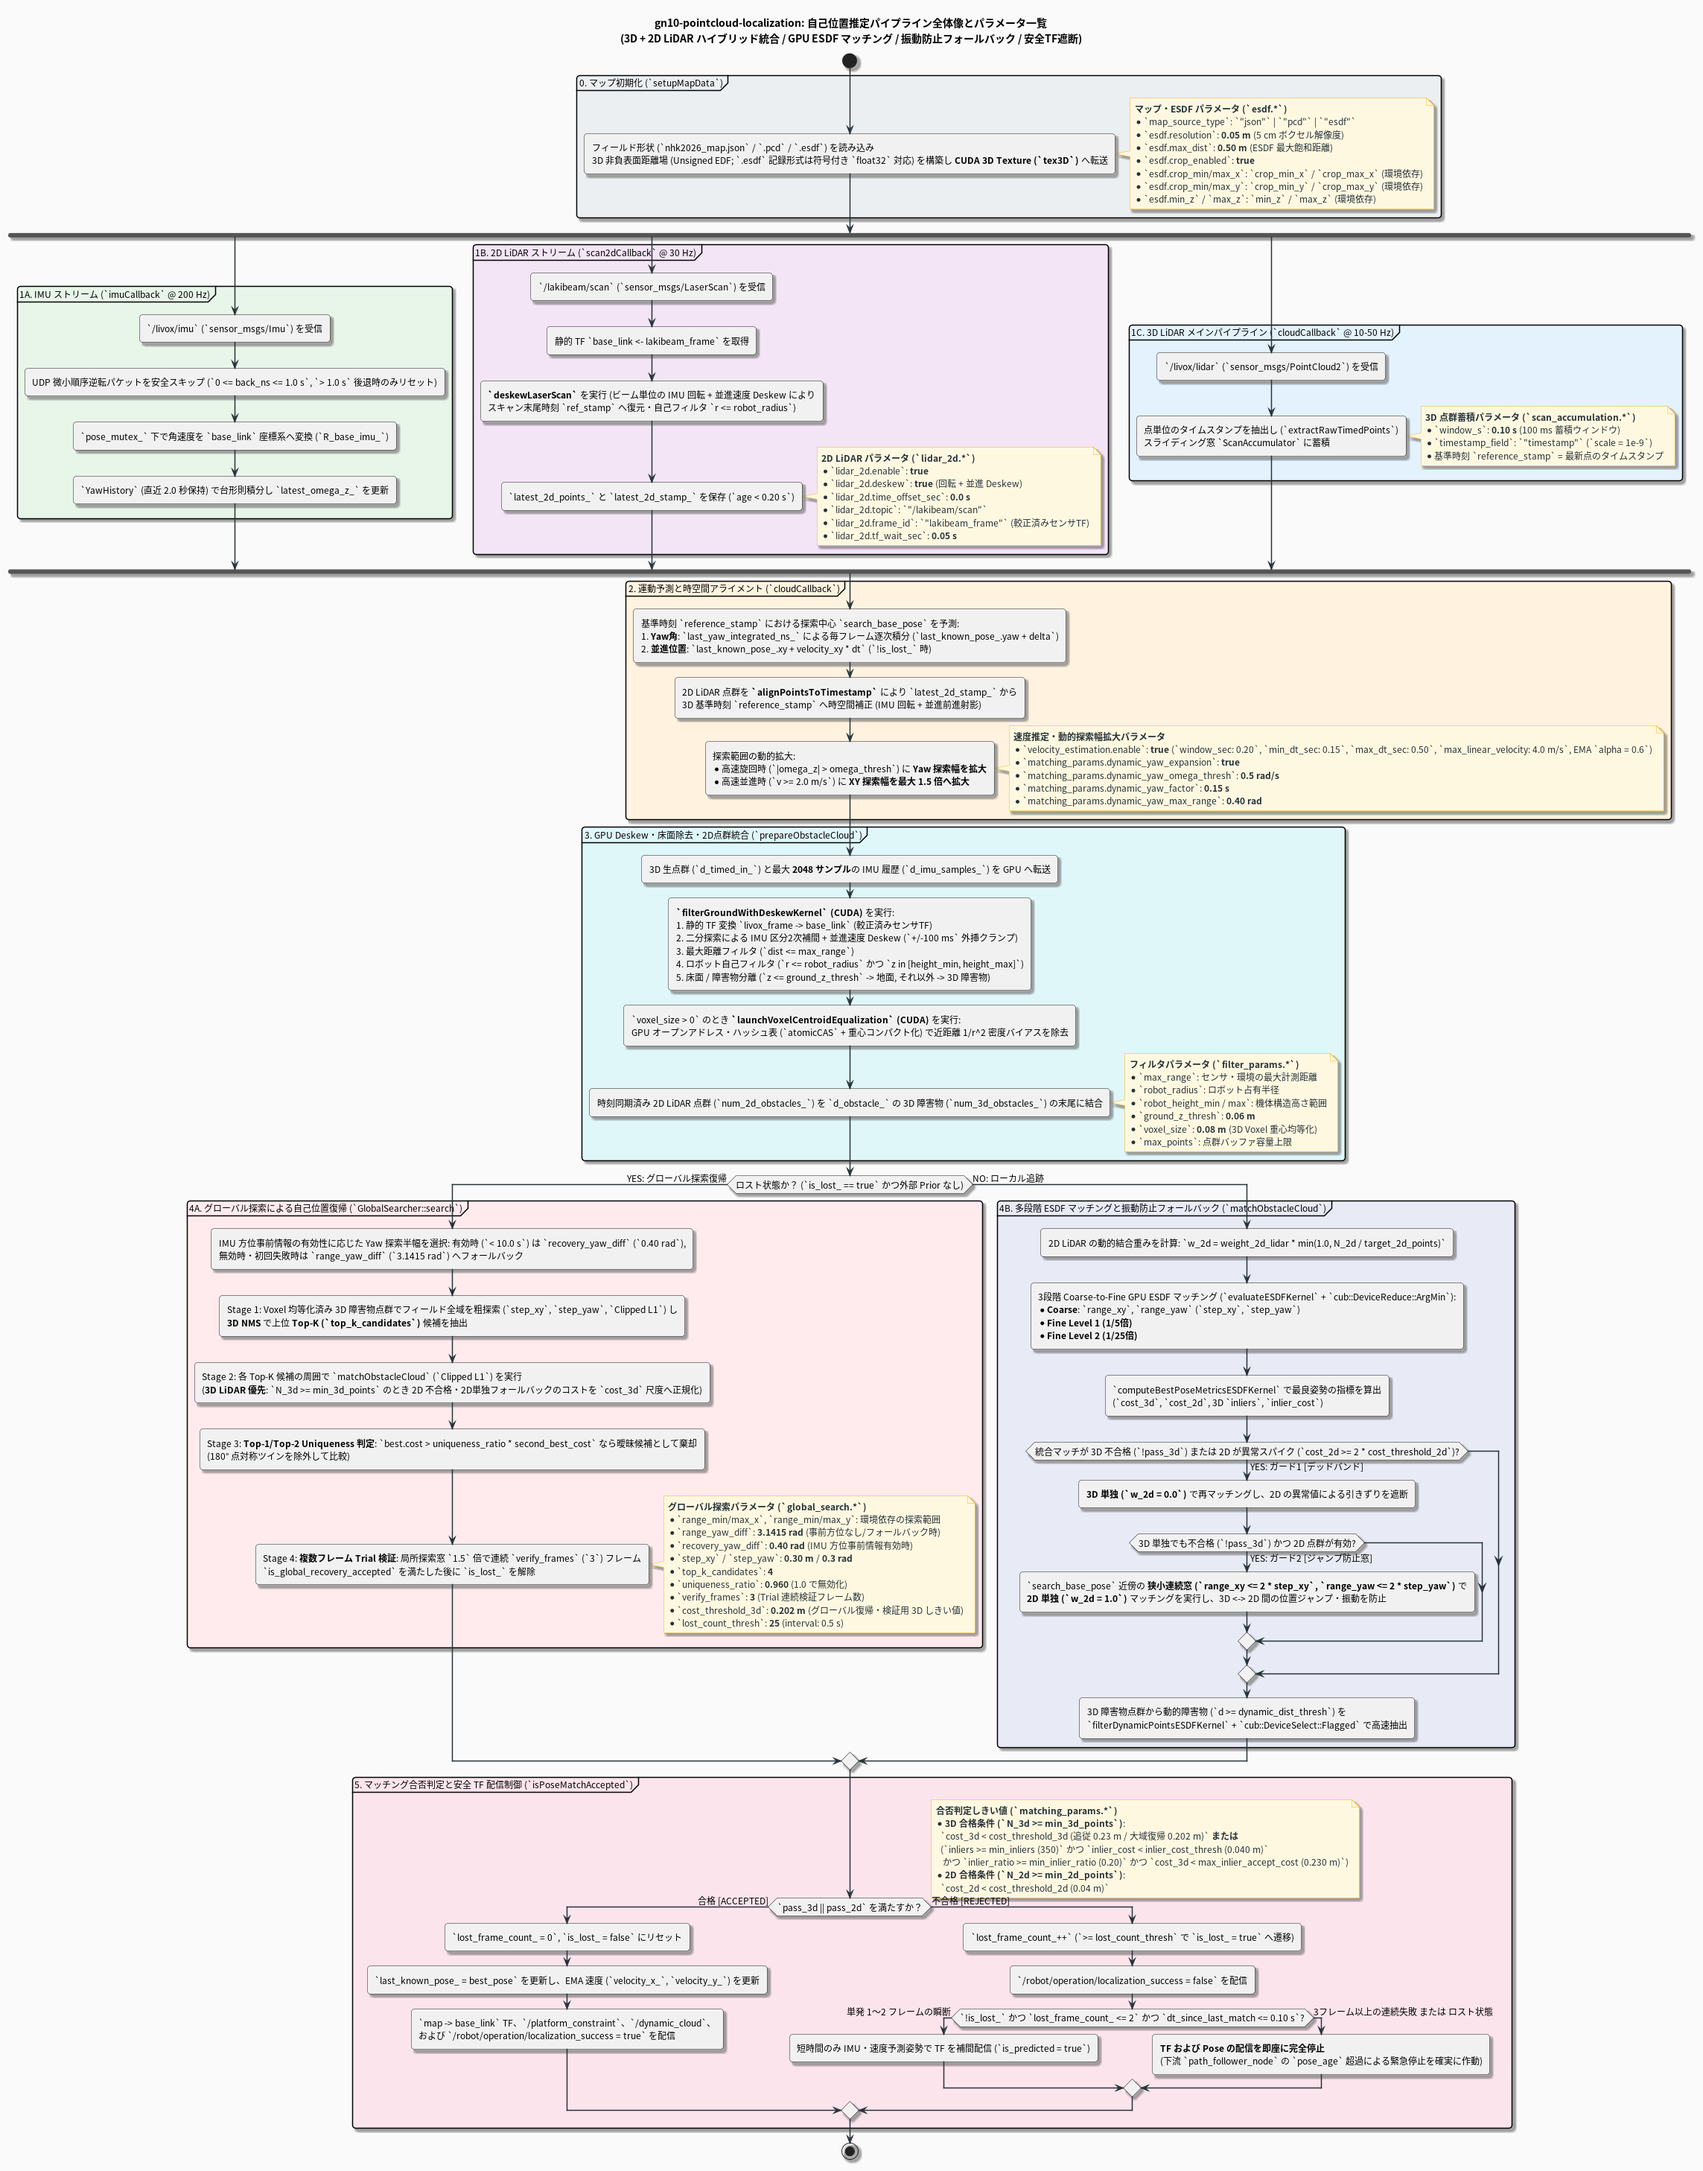
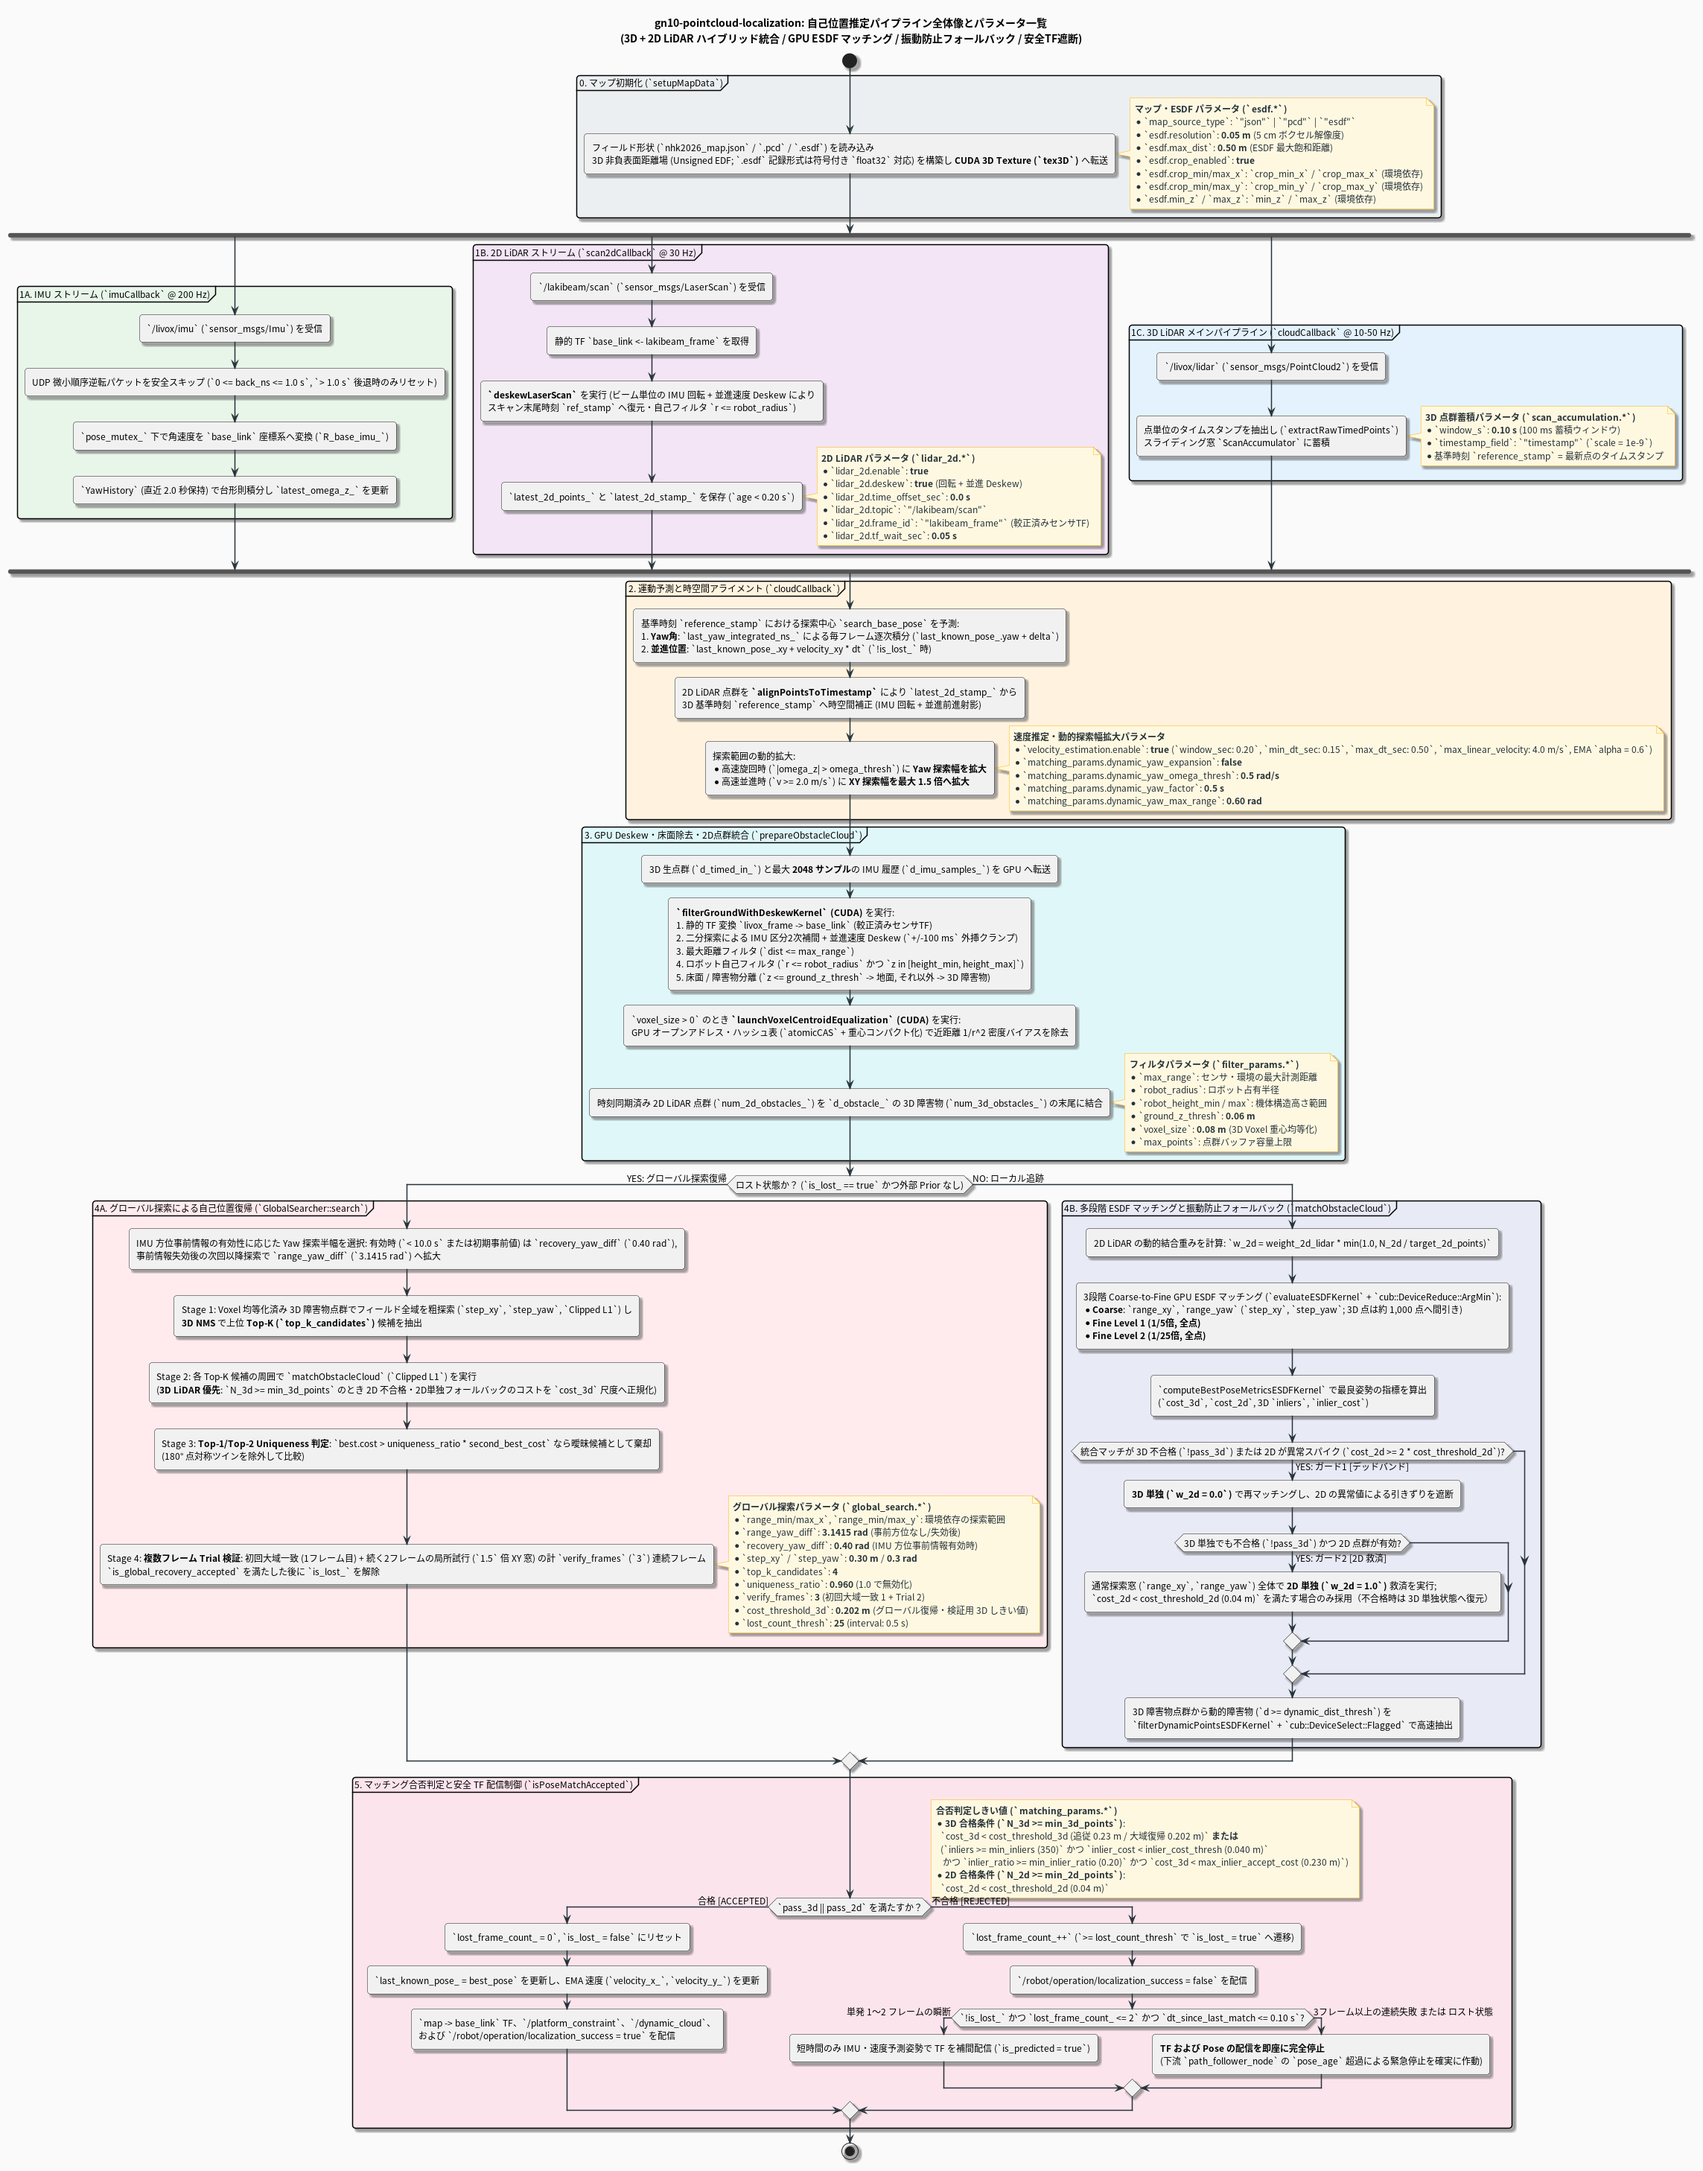
docs: sync README benchmarks, YAML comments, and PlantUML diagrams with v1.2.4 code

diff --git a/README.md b/README.md
@@ -101,7 +101,7 @@ Common parameters are defined in [`config/common_params.yaml`](./config/common_p
 | `map_file_path` | `""` | Map file name or path (relative paths search within `map/`). |
 | `esdf.resolution` | `0.05` | 3D ESDF voxel grid cell resolution [m]. |
 | `esdf.max_dist` | `0.50` | Maximum Euclidean distance truncation limit in ESDF voxels [m]. |
-| `esdf.crop_enabled` | `true` | Restrict ESDF grid generation to the specified 3D bounding box when loading PCD maps. |
+| `esdf.crop_enabled` | `true` | Restrict ESDF grid generation to the specified 3D bounding box (CAD maps add $\pm\texttt{esdf.max\_dist}$ padding $\to 240\times260\times104$; cropped PCD maps omit padding $\to 220\times240\times84$). |
 | `esdf.crop_min_x` / `crop_max_x` | `-5.5` / `5.5` | ESDF crop minimum/maximum X coordinate [m]. |
 | `esdf.crop_min_y` / `crop_max_y` | `-6.0` / `6.0` | ESDF crop minimum/maximum Y coordinate [m]. |
 | `esdf.min_z` / `max_z` | `-0.20` / `4.00` | ESDF crop minimum/maximum Z coordinate [m]. |
@@ -116,7 +116,7 @@ Common parameters are defined in [`config/common_params.yaml`](./config/common_p
 | `matching_params.search_range_yaw` | `0.15` | Local coarse search yaw half-window [rad]. |
 | `matching_params.search_step_yaw` | `0.03` | Local coarse search yaw grid step [rad] (~$1.7^\circ$). |
 | `matching_params.fine_refine` / `levels` | `true` / `2` | 2-stage $5 \times 5 \times 5$ sub-voxel refinement (`0.05 m` $\to$ `0.002 m`). |
-| `matching_params.max_dist_thresh` | `0.25` | Per-point Huber/L1 residual distance clipping ceiling [m]. |
+| `matching_params.max_dist_thresh` | `0.25` | Per-point residual distance clipping ceiling [m] (Clipped L1 / Welsch / Cauchy). |
 | `matching_params.dynamic_dist_thresh` | `0.15` | Distance threshold [m] above which points are extracted as `/dynamic_cloud`. |
 | `matching_params.cost_threshold_3d` | `0.23` | Independent 3D LiDAR mean residual acceptance threshold [m] for local tracking ($C_{\text{3D}} < 0.23\text{ m}$). |
 | `matching_params.cost_threshold_2d` | `0.04` | Independent 2D LiDAR mean residual acceptance threshold [m] ($C_{\text{2D}} < 0.04\text{ m}$, hysteresis detachment at $2\times = 0.08\text{ m}$). |
@@ -138,7 +138,7 @@ Common parameters are defined in [`config/common_params.yaml`](./config/common_p
 | `global_search.recovery_yaw_diff` | `0.40` | Restricted yaw search half-range [rad] when IMU heading prior is valid (`< 10.0 s` since last match or initial heading prior; automatically falls back to `range_yaw_diff` on initial failure). |
 | `global_search.top_k_candidates` | `4` | Number of Top-K spatially distinct local minima refined via NMS during global recovery. |
 | `global_search.uniqueness_ratio` | `0.960` | Top-1/Top-2 cost margin threshold (`best_cost <= uniqueness_ratio * second_best_cost`, excluding $180^\circ$ antipodal symmetry twin) to reject ambiguous global matches (`1.0` disables). |
-| `global_search.verify_frames` | `3` | Consecutive local verification frames required in trial state before committing global recovery and resuming TF/pose output. |
+| `global_search.verify_frames` | `3` | Total consecutive accepted frames (initial global match + 2 subsequent local trial frames at $1.5\times$ XY window) required before committing global recovery and resuming TF/pose output. |
 | `global_search.cost_threshold_3d` | `0.202` | Independent 3D LiDAR mean residual threshold [m] enforced during Global Search recovery and trial verification ($C_{\text{3D}} < 0.202\text{ m}$). |
 | `global_search.lost_count_thresh` | `25` | Consecutive failed frame threshold before triggering full-field global search. |
 
@@ -155,8 +155,8 @@ Verified Desktop (Ryzen 7 5700X + NVIDIA RTX 4060) and Embedded (NVIDIA Jetson O
 | Evaluation | Desktop (RTX 4060) | Jetson Orin Nano (25 W) |
 | :--- | :--- | :--- |
 | **CUDA `tex3D` Micro-Benchmark** (`240x260x104`) | `1.75x-3.03x` vs. Glob8 (`50.6x-90.9x` vs. CPU 16T) | `1.71x-2.23x` vs. Glob8 (`9.69x-31.3x` vs. CPU 6T) |
-| **Full Arena Tracking (`280 s`, 3D+2D)** | `0.594 ms` mean (`7.2%` CPU) | `5.854 ms` mean (`5.19 W`, `30.39 mJ/frame`) |
-| **Close-Human `2x2` Ablation (`0-65 s`)** | `-95.1%` frames `>0.10 m` (`1,026 -> 50`, RMSE `0.046 m`) | `-95.1%` frames `>0.10 m` (`1,014 -> 50`, `5.14 W`) |
+| **Full Arena Tracking (`20-280 s`, 3D+2D)** | `0.622 ms` mean (`7.7%` CPU) | `5.874 ms` mean (`5.24 W`, `30.77 mJ/frame`) |
+| **Close-Human `2x2` Ablation (`22-65 s`)** | `-95.0%` frames `>0.10 m` (`1,005 -> 50`, RMSE `0.055 m`) | `-94.8%` frames `>0.10 m` (`962 -> 50`, `5.19 W`) |
 | **Unity 6 Physics GT (CAD / Scanned `.pcd`)** | `19.0 mm` / `11.9 mm` mean (`0` frames `>0.10 m`) | `19.0 mm` / `11.9 mm` mean (`5.80 ms`, `5.18 W`) |
 | **Global Relocalization (`N=8` Unity / `N=21` Real)** | `8/8` (`5.30 ms`); `15/16` (`1x`) / `16/16` (`4x`), `0` FJ (`75/75` reject) | `8/8` (`38.75 ms`); `15/16` (`1x`), `0` FJ (`74/74` reject) |
 | **Public `hdl_501` (Handheld 6-DoF, No IMU)** | `0.80 ms` (`0.352 m` 3-DoF RMSE vs. `0.046 m` 6-DoF NDT-OMP) | `6.46 ms` (`4.90 W`, `3.8x` faster than NDT-OMP, `7.6x` vs. DLL) |

diff --git a/README_jp.md b/README_jp.md
@@ -101,7 +101,7 @@ ros2 launch gn10_pointcloud_localization localization.launch.py use_sim_time:=tr
 | `map_file_path` | `""` | マップファイル名またはパス（相対パスは `map/` 内を探索）。 |
 | `esdf.resolution` | `0.05` | 3D ESDF グリッドのセル解像度 [m]。 |
 | `esdf.max_dist` | `0.50` | ESDF 距離場の最大打ち切り距離 [m]。 |
-| `esdf.crop_enabled` | `true` | PCD マップから ESDF を生成する際に指定境界ボックスでクロップ。 |
+| `esdf.crop_enabled` | `true` | ESDF 生成時に指定境界ボックスでクロップ（CAD マップは外側へ $\pm\texttt{esdf.max\_dist}$ パディングを自動付与し `240×260×104`、クロップ済 PCD はパディングなしで `220×240×84`）。 |
 | `esdf.crop_min_x` / `crop_max_x` | `-5.5` / `5.5` | ESDF クロップ範囲の X 下限/上限 [m]。 |
 | `esdf.crop_min_y` / `crop_max_y` | `-6.0` / `6.0` | ESDF クロップ範囲の Y 下限/上限 [m]。 |
 | `esdf.min_z` / `max_z` | `-0.20` / `4.00` | ESDF クロップ範囲の Z 下限/上限 [m]。 |
@@ -138,7 +138,7 @@ ros2 launch gn10_pointcloud_localization localization.launch.py use_sim_time:=tr
 | `global_search.recovery_yaw_diff` | `0.40` | IMU 方位事前情報（最終マッチ後 `10.0 s` 以内または初期姿勢事前値）が有効な間の絞り込み Yaw 探索半幅 [rad]（初回失敗時は `range_yaw_diff` へ自動フォールバック）。 |
 | `global_search.top_k_candidates` | `4` | グローバル復帰探索時にNMSで抽出して精密化する上位候補数。 |
 | `global_search.uniqueness_ratio` | `0.960` | 曖昧なグローバル一致を棄却する Top-1/Top-2 コスト比上限 (`best_cost <= uniqueness_ratio * second_best_cost`、$180^\circ$ 点対称ツインを除外、`1.0` で無効化)。 |
-| `global_search.verify_frames` | `3` | グローバル復帰を確定して TF/推定姿勢の出力を再開する前に、トライアル状態で要求する連続ローカル検証フレーム数。 |
+| `global_search.verify_frames` | `3` | グローバル復帰を確定して TF/推定姿勢の出力を再開するまでに要求する連続合格フレーム数（初回グローバル一致 1 フレーム＋続く 2 フレームの `1.5×` XY 窓ローカル試行）。 |
 | `global_search.cost_threshold_3d` | `0.202` | グローバル探索復帰および Trial 検証時に適用する厳格な 3D LiDAR 独立残差合格しきい値 [m] ($C_{\text{3D}} < 0.202\text{ m}$)。 |
 | `global_search.lost_count_thresh` | `25` | グローバル全域探索へ移行する連続失敗フレーム数。 |
 
@@ -155,8 +155,8 @@ Desktop（Ryzen 7 5700X + NVIDIA RTX 4060）および組込み環境（NVIDIA Je
 | 評価項目 | Desktop (RTX 4060) | Jetson Orin Nano (25 W) |
 | :--- | :--- | :--- |
 | **CUDA `tex3D` マイクロベンチ** (`240x260x104`) | Glob8比 `1.75x-3.03x`（CPU 16T比 `50.6x-90.9x`） | Glob8比 `1.71x-2.23x`（CPU 6T比 `9.69x-31.3x`） |
-| **実機フル走行追従 (`280 s`, 3D+2D)** | 平均 `0.594 ms`（CPU `7.2%`） | 平均 `5.854 ms`（`5.19 W`, `30.39 mJ/frame`） |
-| **近接人物 `2x2` アブレーション (`0-65 s`)** | `>0.10 m` フレーム `95.1%` 削減（`1,026 -> 50`, RMSE `0.046 m`） | `>0.10 m` フレーム `95.1%` 削減（`1,014 -> 50`, `5.14 W`） |
+| **実機フル走行追従 (`20-280 s`, 3D+2D)** | 平均 `0.622 ms`（CPU `7.7%`） | 平均 `5.874 ms`（`5.24 W`, `30.77 mJ/frame`） |
+| **近接人物 `2x2` アブレーション (`22-65 s`)** | `>0.10 m` フレーム `95.0%` 削減（`1,005 -> 50`, RMSE `0.055 m`） | `>0.10 m` フレーム `94.8%` 削減（`962 -> 50`, `5.19 W`） |
 | **Unity 6 物理真値（CAD / スキャン `.pcd`）** | 平均 `19.0 mm` / `11.9 mm`（`>0.10 m` 0件） | 平均 `19.0 mm` / `11.9 mm`（`5.80 ms`, `5.18 W`） |
 | **大域復帰（Unity `N=8` / 実機 `N=21`）** | `8/8` (`5.30 ms`) / `15/16` (`1x`), `16/16` (`4x`), 誤ジャンプ `0`（棄却 `75/75`） | `8/8` (`38.75 ms`) / `15/16` (`1x`), 誤ジャンプ `0`（棄却 `74/74`） |
 | **公開 `hdl_501`（手持ち上下動・IMUなし）** | `0.80 ms`（3-DoF RMSE `0.352 m`, 6-DoF NDT-OMPは `0.046 m`） | `6.46 ms`（`4.90 W`, NDT-OMPの `3.8x`, DLLの `7.6x` 高速） |
